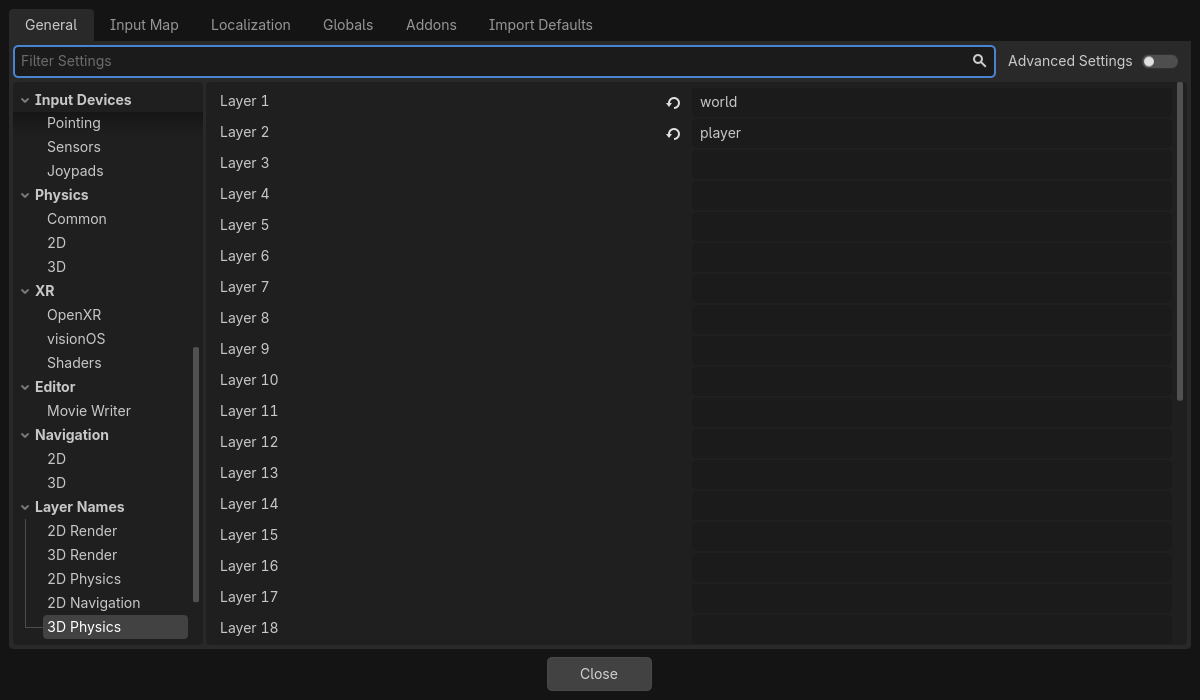
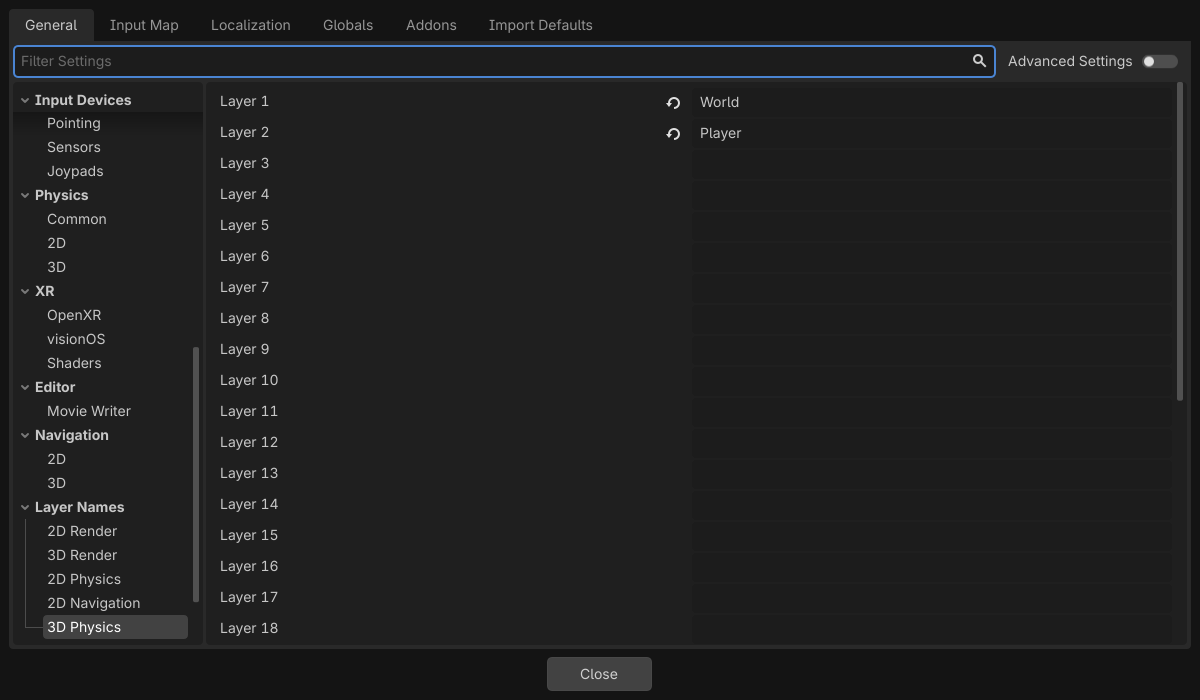
Name the physics layers in PascalCase in lessons 3 and 6

diff --git a/tools/verification/steps/lesson03.py b/tools/verification/steps/lesson03.py
@@ -198,8 +198,8 @@ plugin._collect(window, "CheckButton", "Advanced Settings")[0].button_pressed = 
     # Layer names.
     section('Layer Names', '3D Physics'),
     {'op': 'wait', 'frames': 20},
-    setting('layer_1', '"world"'),
-    setting('layer_2', '"player"'),
+    setting('layer_1', '"World"'),
+    setting('layer_2', '"Player"'),
     {'op': 'wait', 'frames': 20},
     {'op': 'capture', 'name': 'l03_layers', 'window': WINDOW},
     # The input map.
